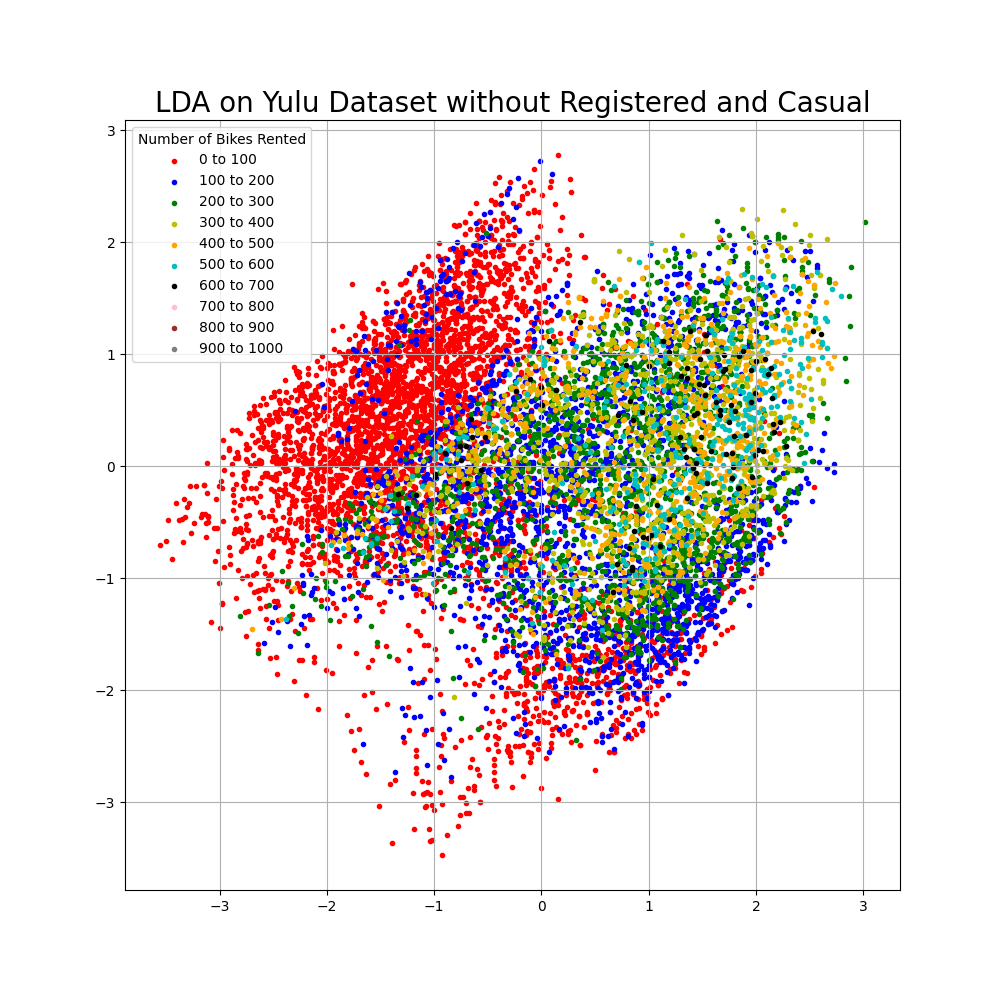
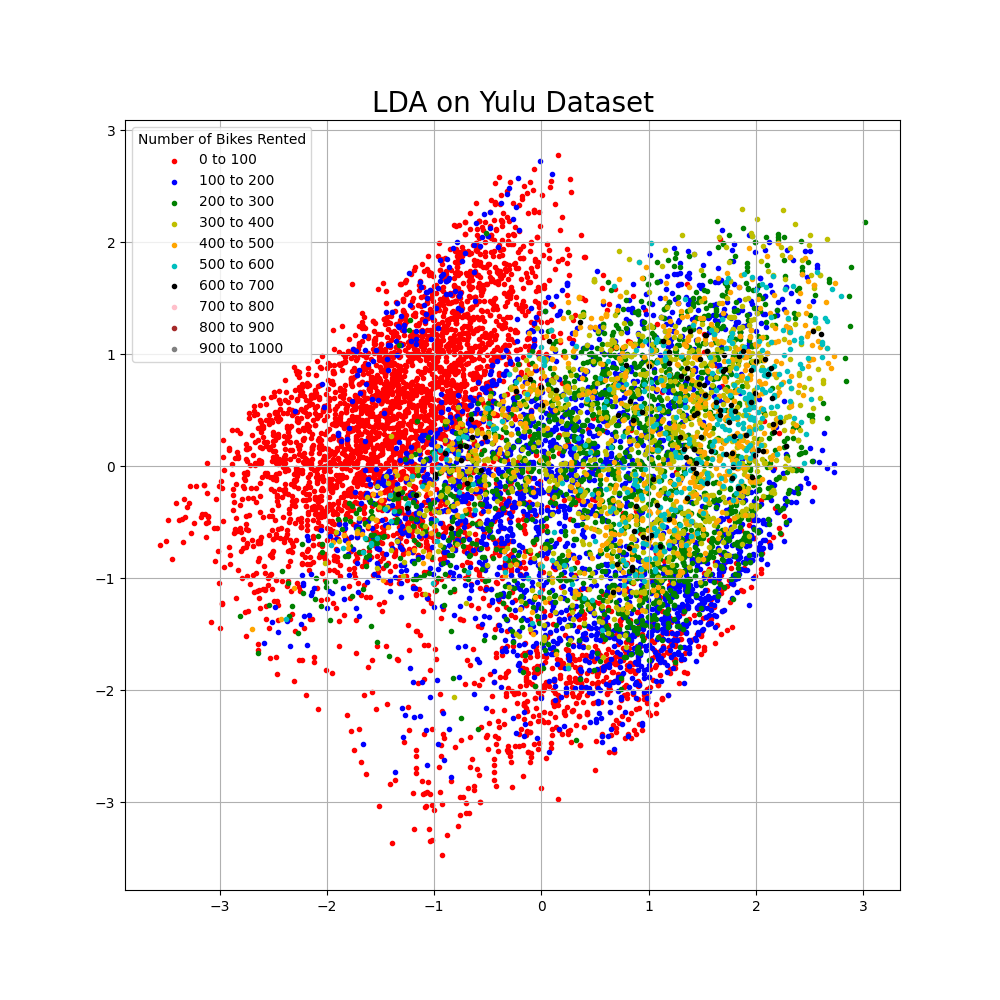
final commit (probably)
Just changed the title of some of the charts

Changed region(s): [[0.155, 0.093, 0.868, 0.124]]

diff --git a/main.py b/main.py
@@ -231,7 +231,7 @@ x_lda_noreg = df_noreg
 
 # LDA
 lda = LinearDiscriminantAnalysis()
-lda = lda.fit(X=x_lda, y=y_lda)
+lda = lda.fit(X=x_lda_noreg, y=y_lda)
 ev = lda.explained_variance_ratio_
 
 # Explained Variance Plot - LDA
@@ -277,7 +277,7 @@ x_lda_noreg = lda.fit_transform(X=x_lda_noreg, y=y_lda)
 plt.clf()
 fig = plt.figure(figsize=(10, 10))
 ax = fig.add_subplot(1, 1, 1)
-ax.set_title('LDA on Yulu Dataset without Registered and Casual', fontsize=20)
+ax.set_title('LDA on Yulu Dataset', fontsize=20)
 class_num = [0, 1, 2, 3, 4, 5, 6, 7, 8, 9]
 colors = ['r', 'b', 'g', 'y', 'orange', 'c', 'k', 'pink', 'brown', 'gray']
 for t, color in zip(class_num, colors):
@@ -299,7 +299,7 @@ classifier_labels = {"SVM - RBF": (SVC(kernel="rbf", random_state=1), "green"),
                      "Logistic Regression": (LogisticRegression(max_iter=1000, random_state=1), "red"),
                      "Random Forest": (RandomForestClassifier(random_state=1), "gold"),
                      "kNN": (KNeighborsClassifier(n_neighbors=5), "gray")}
-
+'''
 # **WARNING**, this section of the code can take up to 10 min to run
 fig1, normal_scores = plot_learning_curve(est_arr=classifier_labels, X=df_final, y=target['count'], train_sizes=np.linspace(start=0.1, stop=0.5, num=5), cv=5, n_jobs=1,
                    title="Supervised Classification of Yulu Dataset Without Dimensionality Reduction")
@@ -311,16 +311,16 @@ fig3, lda_scores = plot_learning_curve(est_arr=classifier_labels, X=x_lda, y=tar
                    title="Supervised Classification of Yulu Dataset With LDA Dimensionality Reduction")
 plt.savefig('classification_accuracy_LDA_count')
 plt.show()
-
+'''
 # Without registered and casual
 fig1, normal_scores = plot_learning_curve(est_arr=classifier_labels, X=df_noreg, y=target['count'], train_sizes=np.linspace(start=0.1, stop=0.5, num=5), cv=5, n_jobs=1,
-                   title="Supervised Classification of Yulu Dataset Without Dimensionality Reduction, without Registered and Casual")
+                   title="Supervised Classification of Yulu Dataset Without Dimensionality Reduction")
 plt.savefig('classification_accuracy_count_no_reg')
 plt.show()
 
 # LDA
 fig3, lda_scores = plot_learning_curve(est_arr=classifier_labels, X=x_lda_noreg, y=target['count'], train_sizes=np.linspace(start=0.1, stop=0.5, num=5), cv=5, n_jobs=1,
-                   title="Supervised Classification of Yulu Dataset With LDA Dimensionality Reduction, without Registered and Casual")
+                   title="Supervised Classification of Yulu Dataset With LDA Dimensionality Reduction")
 plt.savefig('classification_accuracy_LDA_count_no_reg')
 plt.show()
 
